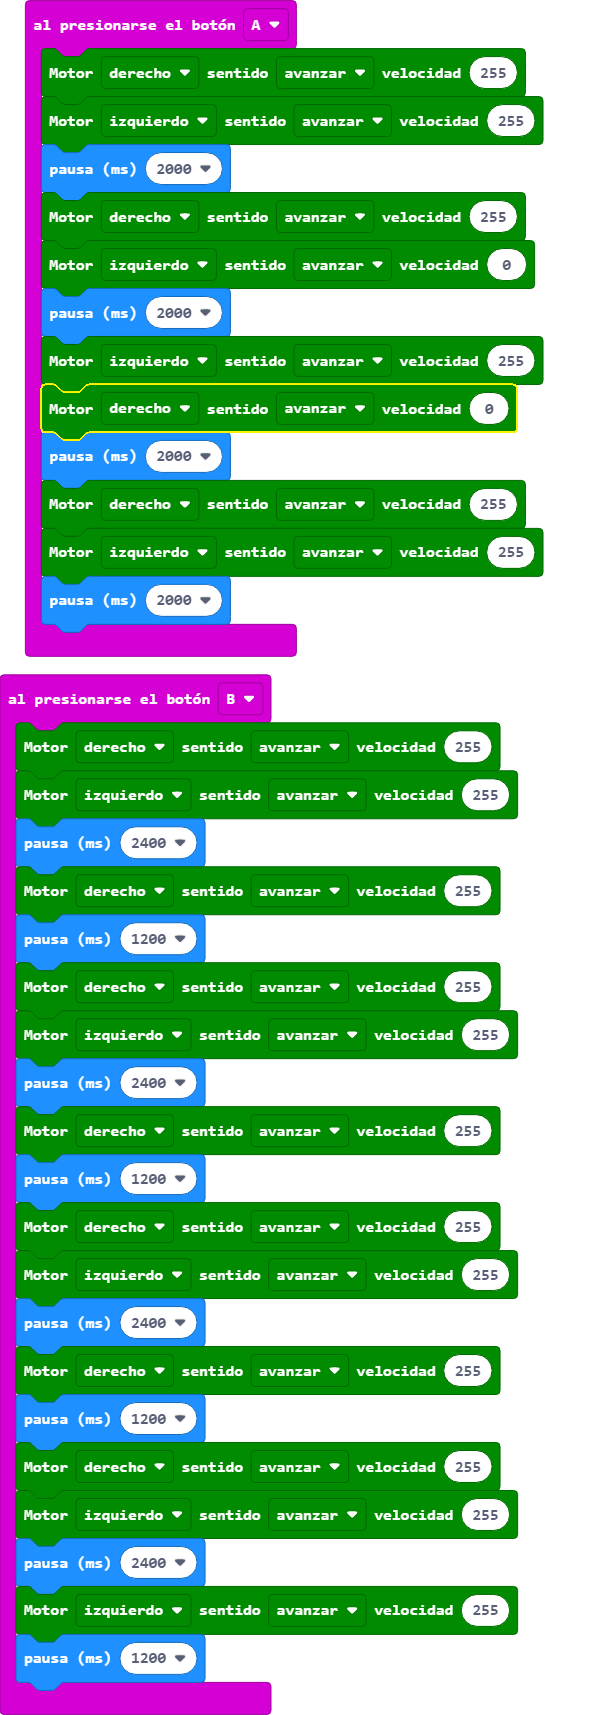
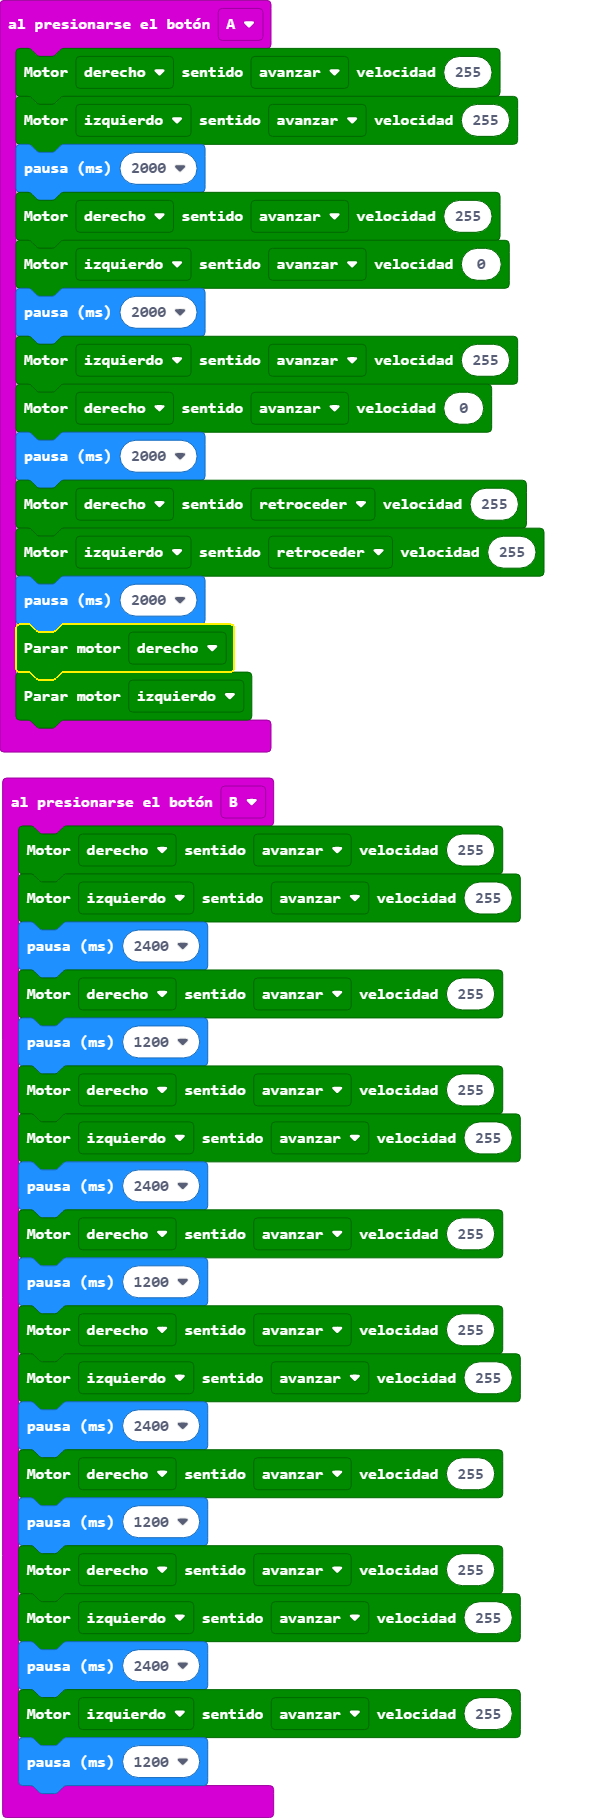
Actualizar main.blocks, main.ts

diff --git a/main.ts b/main.ts
@@ -8,9 +8,11 @@ input.onButtonPressed(Button.A, function () {
     maqueen.motorRun(maqueen.Motors.M1, maqueen.Dir.CW, 255)
     maqueen.motorRun(maqueen.Motors.M2, maqueen.Dir.CW, 0)
     basic.pause(2000)
-    maqueen.motorRun(maqueen.Motors.M2, maqueen.Dir.CW, 255)
-    maqueen.motorRun(maqueen.Motors.M1, maqueen.Dir.CW, 255)
+    maqueen.motorRun(maqueen.Motors.M2, maqueen.Dir.CCW, 255)
+    maqueen.motorRun(maqueen.Motors.M1, maqueen.Dir.CCW, 255)
     basic.pause(2000)
+    maqueen.motorStop(maqueen.Motors.M2)
+    maqueen.motorStop(maqueen.Motors.M1)
 })
 input.onButtonPressed(Button.B, function () {
     maqueen.motorRun(maqueen.Motors.M2, maqueen.Dir.CW, 255)
